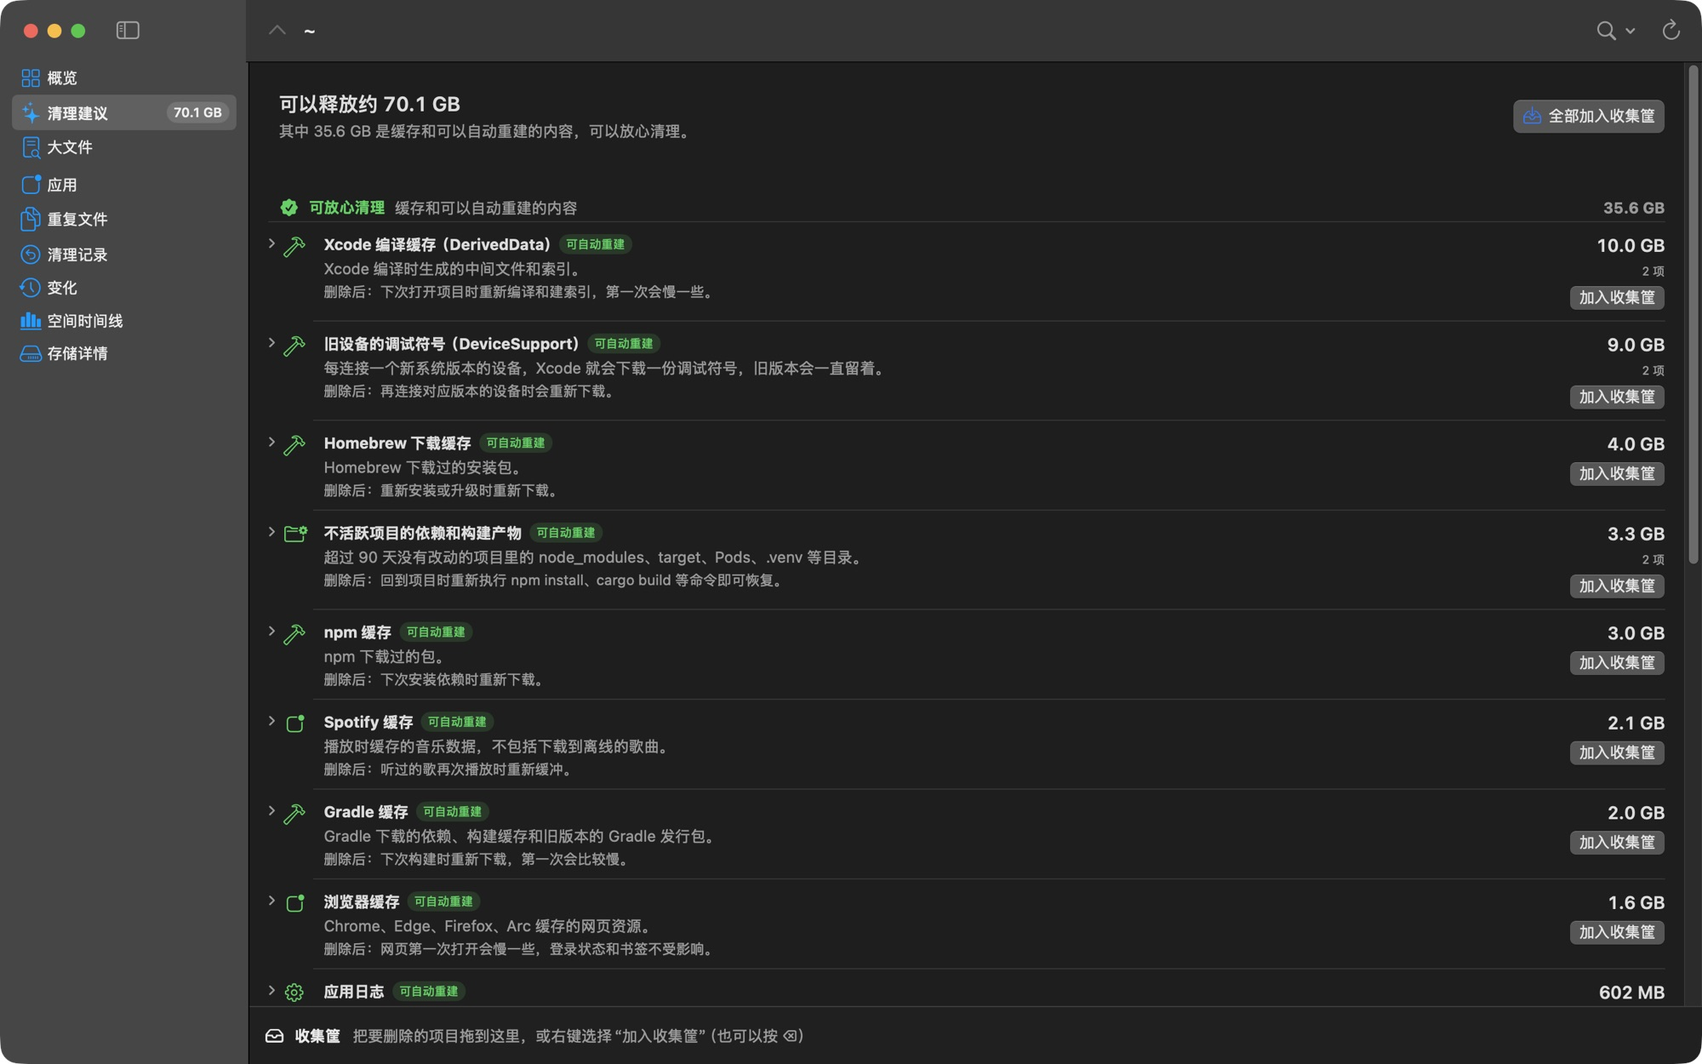
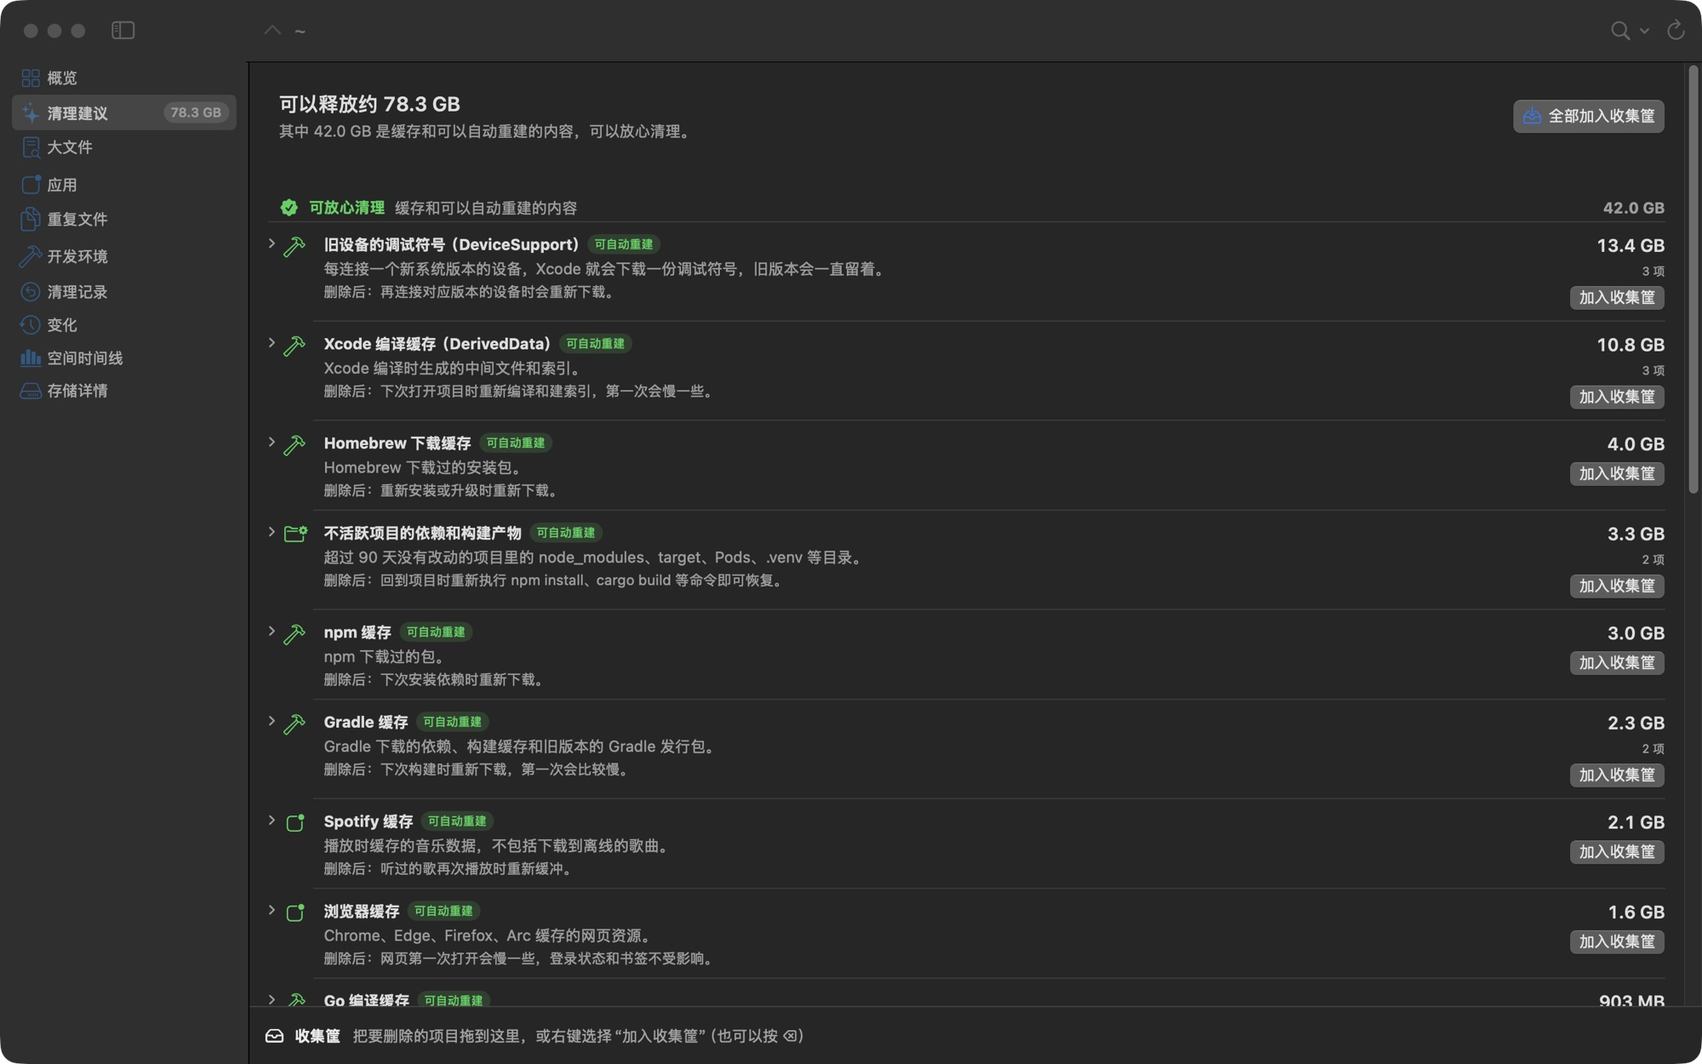
Update the promo page for 0.2.4 and refine Dev Environments
The page gains a Dev Environments section and an auto-update card, links to
the latest release for download, describes both network requests in the
privacy section, and uses fresh screenshots from the current build.

Dev Environments now picks a device's newest support files by system version
rather than folder date, counts a DerivedData folder with a project path as
a build cache, lists ecosystems with nothing found in one line, and in demo
mode leaves out the tools installed on the real Mac.

diff --git a/docs/index.html b/docs/index.html
@@ -65,6 +65,7 @@ p { margin: 0; }
 .nav nav a { color: var(--muted); }
 .nav nav a:hover { color: var(--fg); text-decoration: none; }
 .pill { font-size: 12px; font-weight: 600; color: var(--fg); background: var(--accent); padding: 5px 12px; border-radius: 999px; white-space: nowrap; }
+.pill:hover { text-decoration: none; filter: brightness(1.12); }
 @media (max-width: 720px) { .nav nav { display: none; } .pill { margin-left: auto; } }
 
 /* hero */
@@ -216,10 +217,11 @@ footer .wrap { display: flex; flex-wrap: wrap; gap: 8px 24px; justify-content: s
       <a href="#clean">清理</a>
       <a href="#search">搜索</a>
       <a href="#timeline">时间线</a>
+      <a href="#dev">开发环境</a>
       <a href="#undo">清理记录</a>
       <a href="#privacy">隐私</a>
     </nav>
-    <span class="pill">即将推出</span>
+    <a class="pill" href="https://github.com/calabli/DiskLens/releases/latest" target="_blank" rel="noopener">下载</a>
   </div>
 </header>
 
@@ -229,7 +231,7 @@ footer .wrap { display: flex; flex-wrap: wrap; gap: 8px 24px; justify-content: s
       <p class="eyebrow">DiskLens · 磁盘空间分析</p>
       <h1>看清<span class="grad">每一 GB</span><br>的去向。</h1>
       <p class="lede">原生速度扫完整块磁盘，把空间画成一张可以放大的地图，再告诉你哪些能放心删掉、删了会怎样。</p>
-      <div class="hero-meta"><span>原生 macOS 应用</span><span>数据只留在你的 Mac 上</span><span>macOS 14 及以上</span></div>
+      <div class="hero-meta"><span>预览版 0.2.4 已发布</span><span>原生 macOS 应用</span><span>数据只留在你的 Mac 上</span><span>macOS 14 及以上</span></div>
 
       <div class="window" role="group" aria-label="DiskLens 演示窗口">
         <div class="titlebar">
@@ -337,6 +339,24 @@ footer .wrap { display: flex; flex-wrap: wrap; gap: 8px 24px; justify-content: s
     </div>
   </section>
 
+  <section class="band" id="dev">
+    <div class="wrap">
+      <div class="head lift">
+        <p class="eyebrow">开发环境</p>
+        <h2 class="h2">Xcode、Docker、Gradle，<br>哪些还在用，一目了然。</h2>
+        <p class="lede">开发工具往往是 Mac 上最大的隐形占用。DiskLens 找出装了哪些版本、模拟器、镜像和缓存，标出哪些正在用、哪些已经没人用，再用工具自己的命令把它们删掉。</p>
+      </div>
+      <figure class="shot lift">
+        <img src="img/devtools.jpg" width="2000" height="1250" alt="开发环境页面：按 Xcode 与模拟器、Docker、Java、Go 分组，标出哪些还在用、哪些已经不用" decoding="async" loading="lazy">
+      </figure>
+      <div class="facts lift">
+        <div><b>知道还在不在用</b><span>当前选中的 Xcode、默认的 JDK、每台设备最新的调试符号、项目还在的编译缓存，都会标出来。</span></div>
+        <div><b>用工具自己的命令</b><span>模拟器用 simctl，镜像用 docker，Homebrew 用 brew cleanup；运行前先给你看完整的命令。</span></div>
+        <div><b>删了也有记录</b><span>每次清理都记进清理记录，普通文件夹照旧移到废纸篓，可以放回。</span></div>
+      </div>
+    </div>
+  </section>
+
   <section class="band" id="undo">
     <div class="wrap split">
       <div class="head lift">
@@ -370,8 +390,8 @@ footer .wrap { display: flex; flex-wrap: wrap; gap: 8px 24px; justify-content: s
         <div class="card"><h3>重复文件</h3><p>先比大小，再比头尾，最后逐字节核对。APFS 克隆出来的副本不占额外空间，不会被误报。</p></div>
         <div class="card"><h3>变化对比</h3><p>和上一次扫描相比，哪些文件夹长了、哪些变小了，按变化大小排好。</p></div>
         <div class="card"><h3>存储详情</h3><p>「系统数据」到底是什么：系统卷、本地快照、可清除空间，分开讲清楚。</p></div>
-        <div class="card"><h3>菜单栏</h3><p>剩余空间常驻菜单栏，快满了、或者一小时内突然多用了很多时，发通知提醒你。</p></div>
-        <div class="card"><h3>读不到的文件夹</h3><p>没有权限的文件夹会单独列出来，告诉你原因，以及怎样开启完全磁盘访问权限。</p></div>
+        <div class="card"><h3>菜单栏</h3><p>菜单栏里一个安静的图标，点开就看到可用空间；快满了、或者一小时内突然多用了很多时，发通知提醒你。</p></div>
+        <div class="card"><h3>自动更新</h3><p>有新版本时提醒你，一键下载安装。安装包先校验签名再替换，旧版本移到废纸篓。</p></div>
       </div>
     </div>
   </section>
@@ -385,7 +405,7 @@ footer .wrap { display: flex; flex-wrap: wrap; gap: 8px 24px; justify-content: s
       <p class="lede">扫描结果、写入记录和清理历史都存在你自己的 Mac 上。DiskLens 不上传文件名，不收集使用数据，也不需要账号。</p>
       <div class="trio lift">
         <div><b>不上传任何数据</b><span>所有分析都在本机完成。</span></div>
-        <div><b>只下载清理规则</b><span>每天最多检查一次公开的规则文件，带签名，可以在设置里关掉。</span></div>
+        <div><b>只下载公开的东西</b><span>清理规则和新版本信息，都带签名校验；两者都可以在设置里关掉。</span></div>
         <div><b>删之前先确认</b><span>文件只会移到废纸篓，并留有记录，随时可以放回。</span></div>
       </div>
     </div>
@@ -394,11 +414,11 @@ footer .wrap { display: flex; flex-wrap: wrap; gap: 8px 24px; justify-content: s
   <section class="band cta">
     <div class="wrap">
       <img class="mark big-mark" src="img/icon.png" width="96" height="96" alt="">
-      <h2 class="h2 lift">DiskLens<br><span class="grad">即将推出。</span></h2>
-      <p class="lede">支持 macOS 14 Sonoma 及以上，Apple 芯片和 Intel 机型都能用。</p>
+      <h2 class="h2 lift">DiskLens<br><span class="grad">预览版已发布。</span></h2>
+      <p class="lede">支持 macOS 14 Sonoma 及以上，Apple 芯片和 Intel 机型都能用。预览版还没有经过苹果公证，第一次打开时请按住 Control 点按 DiskLens，选「打开」。</p>
       <div class="cta-row">
-        <a class="primary" href="https://github.com/calabli/DiskLens" target="_blank" rel="noopener">在 GitHub 上关注</a>
-        <a class="secondary" href="#top">再看一遍演示</a>
+        <a class="primary" href="https://github.com/calabli/DiskLens/releases/latest" target="_blank" rel="noopener">下载 0.2.4</a>
+        <a class="secondary" href="https://github.com/calabli/DiskLens" target="_blank" rel="noopener">在 GitHub 上查看</a>
       </div>
     </div>
   </section>

diff --git a/promo/site/disklens.html b/promo/site/disklens.html
@@ -58,6 +58,7 @@ p { margin: 0; }
 .nav nav a { color: var(--muted); }
 .nav nav a:hover { color: var(--fg); text-decoration: none; }
 .pill { font-size: 12px; font-weight: 600; color: var(--fg); background: var(--accent); padding: 5px 12px; border-radius: 999px; white-space: nowrap; }
+.pill:hover { text-decoration: none; filter: brightness(1.12); }
 @media (max-width: 720px) { .nav nav { display: none; } .pill { margin-left: auto; } }
 
 /* hero */
@@ -209,10 +210,11 @@ footer .wrap { display: flex; flex-wrap: wrap; gap: 8px 24px; justify-content: s
       <a href="#clean">清理</a>
       <a href="#search">搜索</a>
       <a href="#timeline">时间线</a>
+      <a href="#dev">开发环境</a>
       <a href="#undo">清理记录</a>
       <a href="#privacy">隐私</a>
     </nav>
-    <span class="pill">即将推出</span>
+    <a class="pill" href="https://github.com/calabli/DiskLens/releases/latest" target="_blank" rel="noopener">下载</a>
   </div>
 </header>
 
@@ -222,7 +224,7 @@ footer .wrap { display: flex; flex-wrap: wrap; gap: 8px 24px; justify-content: s
       <p class="eyebrow">DiskLens · 磁盘空间分析</p>
       <h1>看清<span class="grad">每一 GB</span><br>的去向。</h1>
       <p class="lede">原生速度扫完整块磁盘，把空间画成一张可以放大的地图，再告诉你哪些能放心删掉、删了会怎样。</p>
-      <div class="hero-meta"><span>原生 macOS 应用</span><span>数据只留在你的 Mac 上</span><span>macOS 14 及以上</span></div>
+      <div class="hero-meta"><span>预览版 0.2.4 已发布</span><span>原生 macOS 应用</span><span>数据只留在你的 Mac 上</span><span>macOS 14 及以上</span></div>
 
       <div class="window" role="group" aria-label="DiskLens 演示窗口">
         <div class="titlebar">
@@ -330,6 +332,24 @@ footer .wrap { display: flex; flex-wrap: wrap; gap: 8px 24px; justify-content: s
     </div>
   </section>
 
+  <section class="band" id="dev">
+    <div class="wrap">
+      <div class="head lift">
+        <p class="eyebrow">开发环境</p>
+        <h2 class="h2">Xcode、Docker、Gradle，<br>哪些还在用，一目了然。</h2>
+        <p class="lede">开发工具往往是 Mac 上最大的隐形占用。DiskLens 找出装了哪些版本、模拟器、镜像和缓存，标出哪些正在用、哪些已经没人用，再用工具自己的命令把它们删掉。</p>
+      </div>
+      <figure class="shot lift">
+        <img src="img/devtools.jpg" width="2000" height="1250" alt="开发环境页面：按 Xcode 与模拟器、Docker、Java、Go 分组，标出哪些还在用、哪些已经不用" decoding="async" loading="lazy">
+      </figure>
+      <div class="facts lift">
+        <div><b>知道还在不在用</b><span>当前选中的 Xcode、默认的 JDK、每台设备最新的调试符号、项目还在的编译缓存，都会标出来。</span></div>
+        <div><b>用工具自己的命令</b><span>模拟器用 simctl，镜像用 docker，Homebrew 用 brew cleanup；运行前先给你看完整的命令。</span></div>
+        <div><b>删了也有记录</b><span>每次清理都记进清理记录，普通文件夹照旧移到废纸篓，可以放回。</span></div>
+      </div>
+    </div>
+  </section>
+
   <section class="band" id="undo">
     <div class="wrap split">
       <div class="head lift">
@@ -363,8 +383,8 @@ footer .wrap { display: flex; flex-wrap: wrap; gap: 8px 24px; justify-content: s
         <div class="card"><h3>重复文件</h3><p>先比大小，再比头尾，最后逐字节核对。APFS 克隆出来的副本不占额外空间，不会被误报。</p></div>
         <div class="card"><h3>变化对比</h3><p>和上一次扫描相比，哪些文件夹长了、哪些变小了，按变化大小排好。</p></div>
         <div class="card"><h3>存储详情</h3><p>「系统数据」到底是什么：系统卷、本地快照、可清除空间，分开讲清楚。</p></div>
-        <div class="card"><h3>菜单栏</h3><p>剩余空间常驻菜单栏，快满了、或者一小时内突然多用了很多时，发通知提醒你。</p></div>
-        <div class="card"><h3>读不到的文件夹</h3><p>没有权限的文件夹会单独列出来，告诉你原因，以及怎样开启完全磁盘访问权限。</p></div>
+        <div class="card"><h3>菜单栏</h3><p>菜单栏里一个安静的图标，点开就看到可用空间；快满了、或者一小时内突然多用了很多时，发通知提醒你。</p></div>
+        <div class="card"><h3>自动更新</h3><p>有新版本时提醒你，一键下载安装。安装包先校验签名再替换，旧版本移到废纸篓。</p></div>
       </div>
     </div>
   </section>
@@ -378,7 +398,7 @@ footer .wrap { display: flex; flex-wrap: wrap; gap: 8px 24px; justify-content: s
       <p class="lede">扫描结果、写入记录和清理历史都存在你自己的 Mac 上。DiskLens 不上传文件名，不收集使用数据，也不需要账号。</p>
       <div class="trio lift">
         <div><b>不上传任何数据</b><span>所有分析都在本机完成。</span></div>
-        <div><b>只下载清理规则</b><span>每天最多检查一次公开的规则文件，带签名，可以在设置里关掉。</span></div>
+        <div><b>只下载公开的东西</b><span>清理规则和新版本信息，都带签名校验；两者都可以在设置里关掉。</span></div>
         <div><b>删之前先确认</b><span>文件只会移到废纸篓，并留有记录，随时可以放回。</span></div>
       </div>
     </div>
@@ -387,11 +407,11 @@ footer .wrap { display: flex; flex-wrap: wrap; gap: 8px 24px; justify-content: s
   <section class="band cta">
     <div class="wrap">
       <img class="mark big-mark" src="img/icon.png" width="96" height="96" alt="">
-      <h2 class="h2 lift">DiskLens<br><span class="grad">即将推出。</span></h2>
-      <p class="lede">支持 macOS 14 Sonoma 及以上，Apple 芯片和 Intel 机型都能用。</p>
+      <h2 class="h2 lift">DiskLens<br><span class="grad">预览版已发布。</span></h2>
+      <p class="lede">支持 macOS 14 Sonoma 及以上，Apple 芯片和 Intel 机型都能用。预览版还没有经过苹果公证，第一次打开时请按住 Control 点按 DiskLens，选「打开」。</p>
       <div class="cta-row">
-        <a class="primary" href="https://github.com/calabli/DiskLens" target="_blank" rel="noopener">在 GitHub 上关注</a>
-        <a class="secondary" href="#top">再看一遍演示</a>
+        <a class="primary" href="https://github.com/calabli/DiskLens/releases/latest" target="_blank" rel="noopener">下载 0.2.4</a>
+        <a class="secondary" href="https://github.com/calabli/DiskLens" target="_blank" rel="noopener">在 GitHub 上查看</a>
       </div>
     </div>
   </section>

diff --git a/Sources/DiskLensCore/DevTools/AppleTools.swift b/Sources/DiskLensCore/DevTools/AppleTools.swift
@@ -20,7 +20,7 @@ enum AppleTools {
 
     private static func xcodes(_ context: DevContext) -> [DevItem] {
         let selected = context.output("xcode-select", ["-p"])?.trimmingCharacters(in: .whitespacesAndNewlines)
-        let roots = ["/Applications", context.home + "/Applications"]
+        let roots = (context.looksOutsideHome ? ["/Applications"] : []) + [context.home + "/Applications"]
         return roots.flatMap { root in
             ((try? FileManager.default.contentsOfDirectory(atPath: root)) ?? [])
                 .filter { $0.hasPrefix("Xcode") && $0.hasSuffix(".app") }
@@ -159,11 +159,19 @@ enum AppleTools {
     }
 
     /// Device support folders are named "iPhone16,1 27.0.1 (24A446)": the model, then the
-    /// system version. Per model, the folder made last is the one in use.
+    /// system version. Per model, the highest system version is the one in use; folders
+    /// without a readable version fall back to the one made last.
     static func newestPerDevice(_ names: [String], modified: (String) -> Date?) -> Set<String> {
-        let byModel = Dictionary(grouping: names) { $0.split(separator: " ").first.map(String.init) ?? $0 }
+        let parts = { (name: String) in name.split(separator: " ").map(String.init) }
+        let byModel = Dictionary(grouping: names) { parts($0).first ?? $0 }
         return Set(byModel.values.compactMap { group in
-            group.max { (modified($0) ?? .distantPast) < (modified($1) ?? .distantPast) }
+            group.max { a, b in
+                let va = parts(a).dropFirst().first, vb = parts(b).dropFirst().first
+                if let va, let vb, va != vb, va.first?.isNumber == true, vb.first?.isNumber == true {
+                    return SoftwareUpdate.isNewer(vb, than: va)
+                }
+                return (modified(a) ?? .distantPast) < (modified(b) ?? .distantPast)
+            }
         })
     }
 
@@ -180,7 +188,7 @@ enum AppleTools {
             // "Balance-dcpdfurxzfyvaleftwwznpamjqlg" → "Balance"; shared caches such as "SymbolCache.noindex" keep their name.
             let project = folder.range(of: #"-[a-z]{28}$"#, options: .regularExpression).map { String(folder[..<$0.lowerBound]) }
             let name = workspace.map { ($0 as NSString).lastPathComponent } ?? project ?? folder
-            return DevItem(id: "derived:" + path, ecosystem: .apple, kind: project == nil ? "Xcode 共享缓存" : "编译缓存", title: name,
+            return DevItem(id: "derived:" + path, ecosystem: .apple, kind: workspace == nil && project == nil ? "Xcode 共享缓存" : "编译缓存", title: name,
                            detail: workspace.map { ($0 as NSString).deletingLastPathComponent.abbreviatingHome },
                            path: path, size: context.size(of: path), lastUsed: accessed, usage: usage,
                            removal: .trash(path),

diff --git a/scripts/make-demo-home.swift b/scripts/make-demo-home.swift
@@ -125,6 +125,24 @@ fill("Projects/ios-client/build", 3 * GB, with: 64 * MB) { "Intermediates/obj-\(
 fill(".npm/_cacache/content-v2/sha512", 3 * GB, with: MB) { String(format: "%02x/%02x/%060x", $0 % 256, ($0 / 7) % 256, $0 &* 104_729) }
 fill(".gradle/caches/modules-2/files-2.1", 2 * GB, with: 8 * MB) { "lib-\($0).jar" }
 
+// MARK: More developer tools, for the Dev Environments page
+
+// An updated iPhone leaves its older system's symbols behind; one DerivedData's project is gone.
+fill("Library/Developer/Xcode/iOS DeviceSupport/iPhone16,1 17.6 (21G80)/Symbols/System/Library/PrivateFrameworks",
+     4400 * MB, with: 64 * MB) { "Framework\($0).framework" }
+for (folder, workspace) in [("Lumen-ahfkqbxdmeywcrgoxzrlnmpa", "Projects/ios-client/Lumen.xcodeproj"),
+                            ("WeatherKit-dkehqzpwxtrbbqfhjyavmlu", "Projects/weatherkit/WeatherKit.xcodeproj")] {
+    let info: NSDictionary = ["WorkspacePath": home + "/" + workspace, "LastAccessedDate": daysAgo(workspace.contains("weather") ? 120 : 1)]
+    info.write(toFile: home + "/\(derived)/\(folder)/info.plist", atomically: true)
+}
+try fm.createDirectory(atPath: home + "/Projects/ios-client/Lumen.xcodeproj", withIntermediateDirectories: true)
+fill("Library/Developer/Xcode/DerivedData/ModuleCache.noindex", 900 * MB, with: 8 * MB) { "module-\($0).pcm" }
+fill(".gradle/wrapper/dists/gradle-8.7-bin/abc123", 150 * MB, with: 8 * MB) { "gradle-\($0).jar" }
+fill(".gradle/wrapper/dists/gradle-7.6-bin/def456", 140 * MB, with: 8 * MB) { "gradle-\($0).jar" }
+fill(".m2/repository/org", 1800 * MB, with: 8 * MB) { "artifact-\($0).jar" }
+fill("go/pkg/mod/github.com", 4 * GB, with: 8 * MB) { "module-\($0).zip" }
+fill("Library/Caches/go-build", 900 * MB, with: MB) { String(format: "%02x/%062x-d", $0 % 256, $0 &* 31) }
+
 // MARK: Downloads, with a few true duplicates
 
 for (name, size) in [("Xcode_16.1.xip", 2 * GB), ("ubuntu-24.04.1-desktop-arm64.iso", 2 * GB), ("旅行素材.zip", 2 * GB),

diff --git a/Sources/DiskLensApp/DevToolsView.swift b/Sources/DiskLensApp/DevToolsView.swift
@@ -15,7 +15,8 @@ struct DevToolsView: View {
             Header(groups: groups)
             Divider()
             List {
-                ForEach(DevEcosystem.allCases, id: \.self) { ecosystem in
+                // Ecosystems found to have nothing are named once at the end instead of each taking a section.
+                ForEach(DevEcosystem.allCases.filter { tools.groups[$0].map { !$0.items.isEmpty } ?? true }, id: \.self) { ecosystem in
                     Section {
                         if let group = tools.groups[ecosystem] {
                             if let note = group.note {
@@ -31,6 +32,12 @@ struct DevToolsView: View {
                         GroupHeader(ecosystem: ecosystem, group: tools.groups[ecosystem],
                                     loading: tools.loading.contains(ecosystem))
                     }
+                }
+                let missing = DevEcosystem.allCases.filter { tools.groups[$0]?.items.isEmpty == true }
+                if !missing.isEmpty {
+                    Text("没有检测到：" + missing.map(\.title).joined(separator: "、"))
+                        .font(.callout)
+                        .foregroundStyle(.secondary)
                 }
             }
         }

diff --git a/Sources/DiskLensCore/DevTools/DevEnvironment.swift b/Sources/DiskLensCore/DevTools/DevEnvironment.swift
@@ -91,11 +91,19 @@ public struct DevContext: Sendable {
     public var run: @Sendable (ToolCommand, TimeInterval) -> ToolCommand.Result?
 
     public init(home: String = UserHome.path, tree: FileTree? = nil,
-                run: @escaping @Sendable (ToolCommand, TimeInterval) -> ToolCommand.Result? = { try? $0.run(timeout: $1) }) {
+                run: @escaping @Sendable (ToolCommand, TimeInterval) -> ToolCommand.Result? = DevContext.defaultRun) {
         self.home = home
         self.tree = tree
         self.run = run
     }
+
+    /// Runs the real tool, except in a demo, where what is installed on this Mac must not show.
+    public static let defaultRun: @Sendable (ToolCommand, TimeInterval) -> ToolCommand.Result? = { command, timeout in
+        UserHome.demoPath == nil ? try? command.run(timeout: timeout) : nil
+    }
+
+    /// Folders outside the home folder (like /Applications) are left out in a demo.
+    var looksOutsideHome: Bool { UserHome.demoPath == nil }
 
     /// Standard output of a command that succeeded, or nil.
     func output(_ program: String, _ arguments: [String], timeout: TimeInterval = 30) -> String? {

diff --git a/Tests/DiskLensCoreTests/DevToolsTests.swift b/Tests/DiskLensCoreTests/DevToolsTests.swift
@@ -37,6 +37,11 @@ import Testing
                  "iPhone14,2 18.1 (22B83)": 1.0]
     let newest = AppleTools.newestPerDevice(Array(dates.keys)) { dates[$0].map(Date.init(timeIntervalSince1970:)) }
     #expect(newest == ["iPhone16,1 27.2 (24B119)", "iPhone14,2 18.1 (22B83)"])
+
+    // The system version decides, not which folder happens to be newer on disk.
+    let reversed = ["iPhone16,1 17.6 (21G80)": 9.0, "iPhone16,1 18.0 (22A3354)": 1.0]
+    #expect(AppleTools.newestPerDevice(Array(reversed.keys)) { reversed[$0].map(Date.init(timeIntervalSince1970:)) }
+            == ["iPhone16,1 18.0 (22A3354)"])
 }
 
 @Test func dockerImagesAndUsageAreRead() throws {
